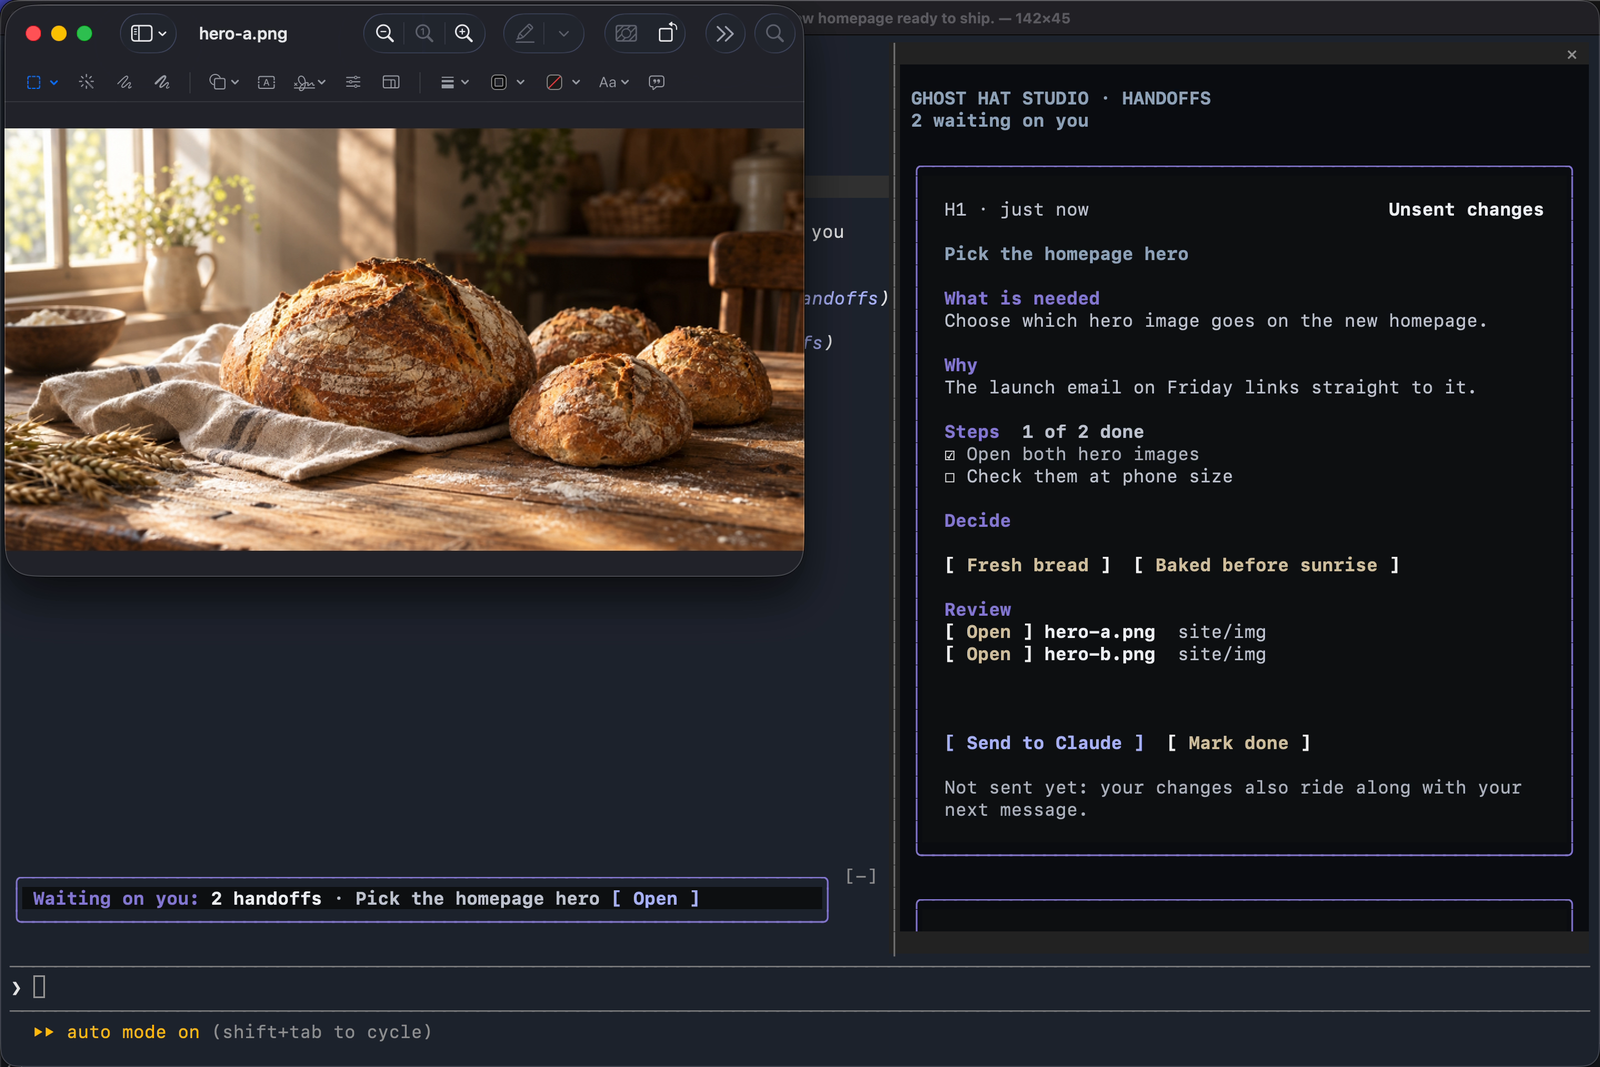
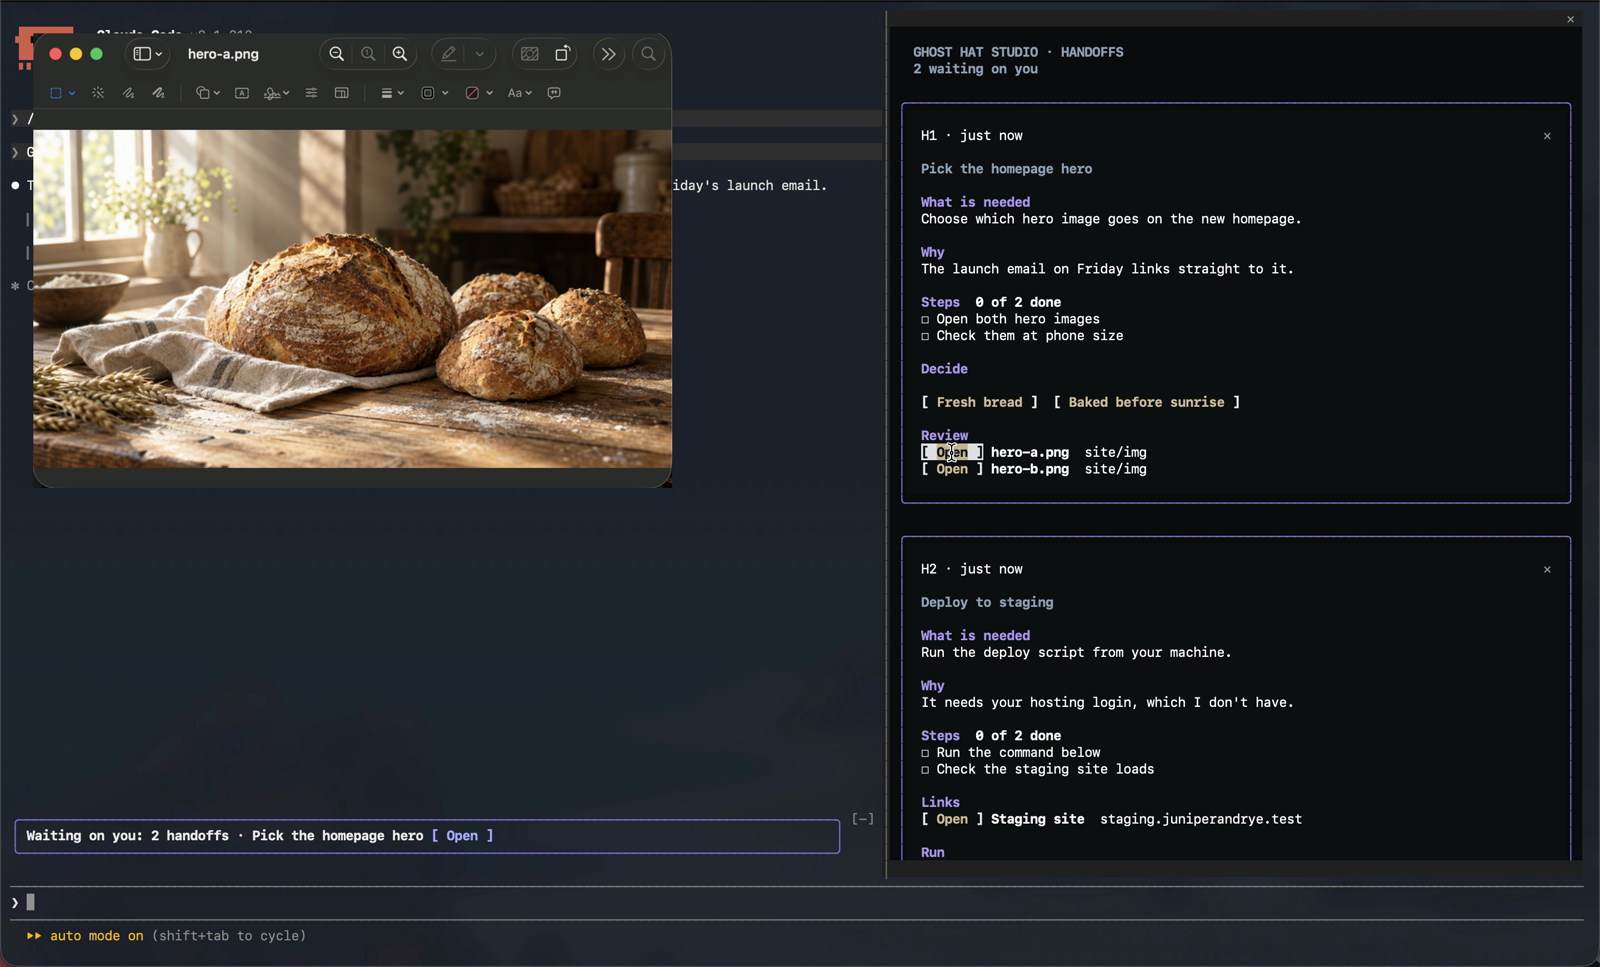
README: new screenshots with the 1.1 buttons; the main one opens the tour
Claude-Session: https://claude.ai/code/session_01H68wBT2KMZpKDaHQr9QPsM

Changed region(s): [[0.0, 0.0, 1.0, 0.9928], [0.0, 0.9928, 0.0312, 1.0]]

diff --git a/README.md b/README.md
@@ -2,7 +2,7 @@
 
 A mod for Claude Code. When Claude needs you to do or decide something, the request becomes a card in a Handoffs pane, so it doesn't scroll away while you're busy elsewhere.
 
-![Claude Code with the Handoffs pane open: two cards waiting, with steps to tick, decision buttons and Open buttons for files](docs/handoffs-pane.png)
+[![Claude Code with the Handoffs pane open: two cards waiting, one with both steps ticked, an option picked and a Send and close button](docs/handoffs-pane.png)](https://ghosthatstudio.com/toolbox/handoffs/)
 
 Watch the [70-second tour on the Toolbox page](https://ghosthatstudio.com/toolbox/handoffs/).
 
